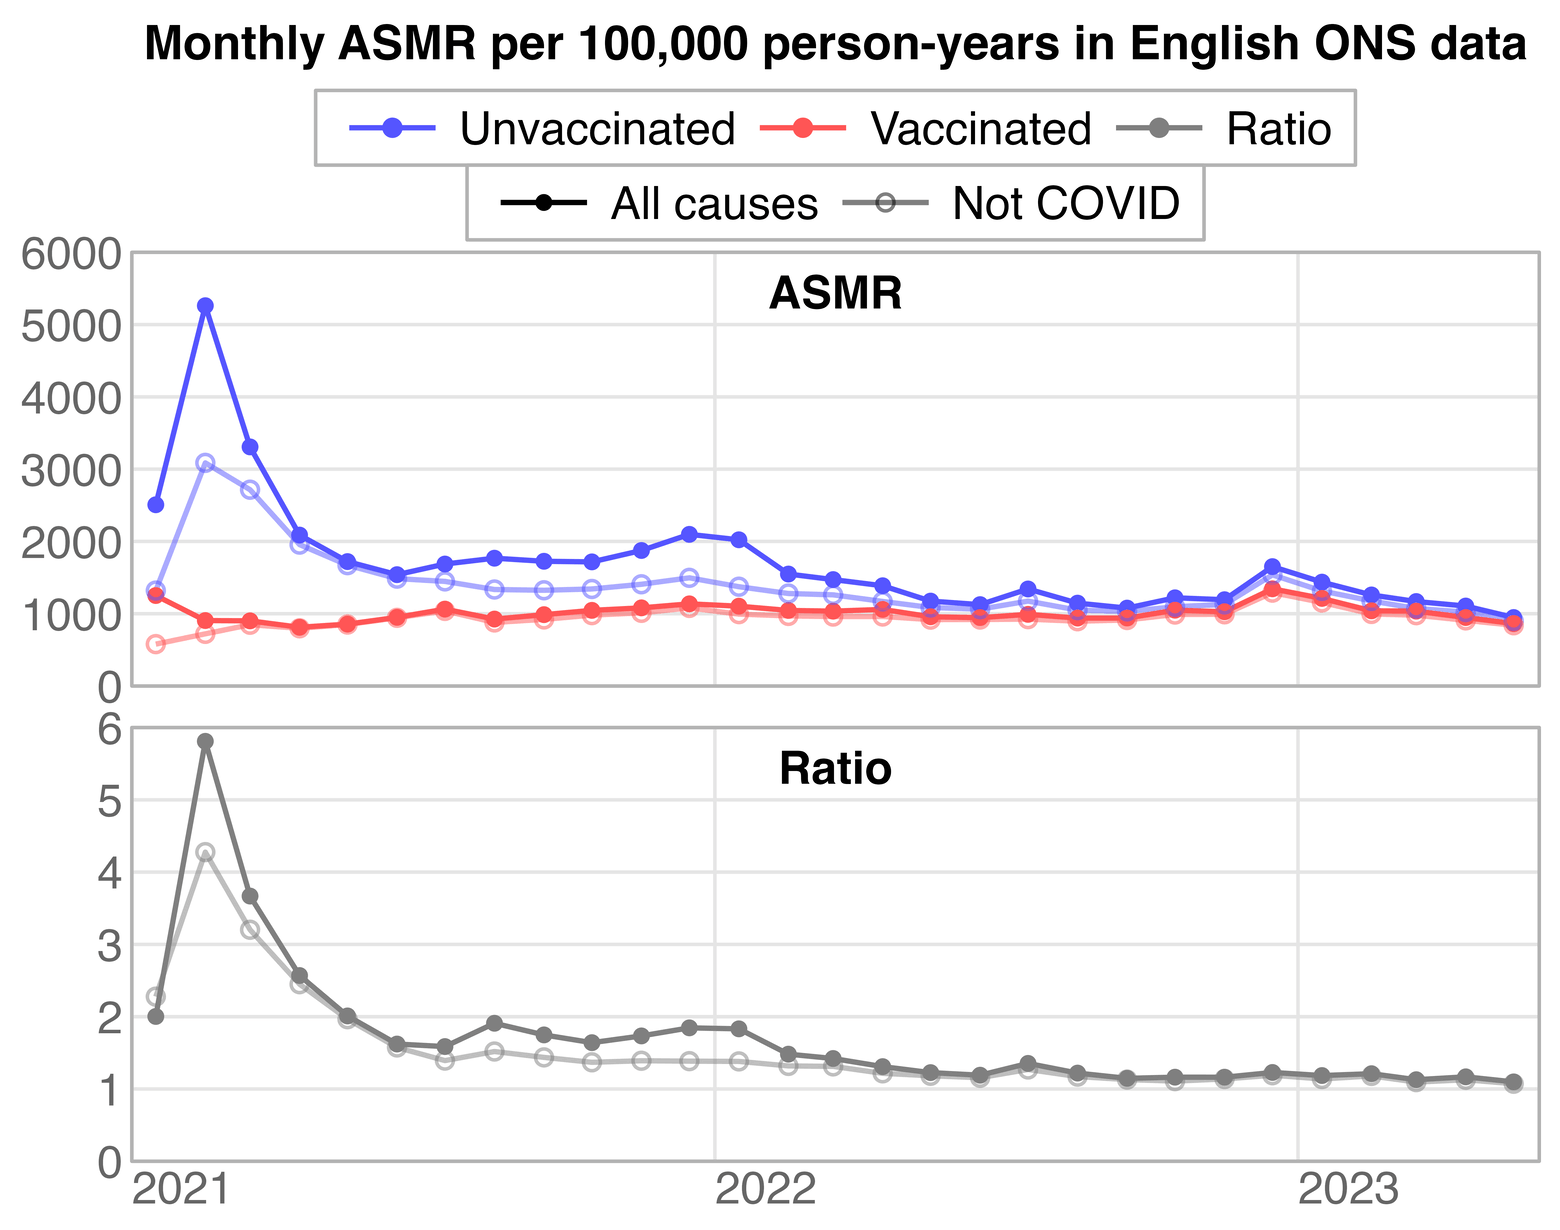
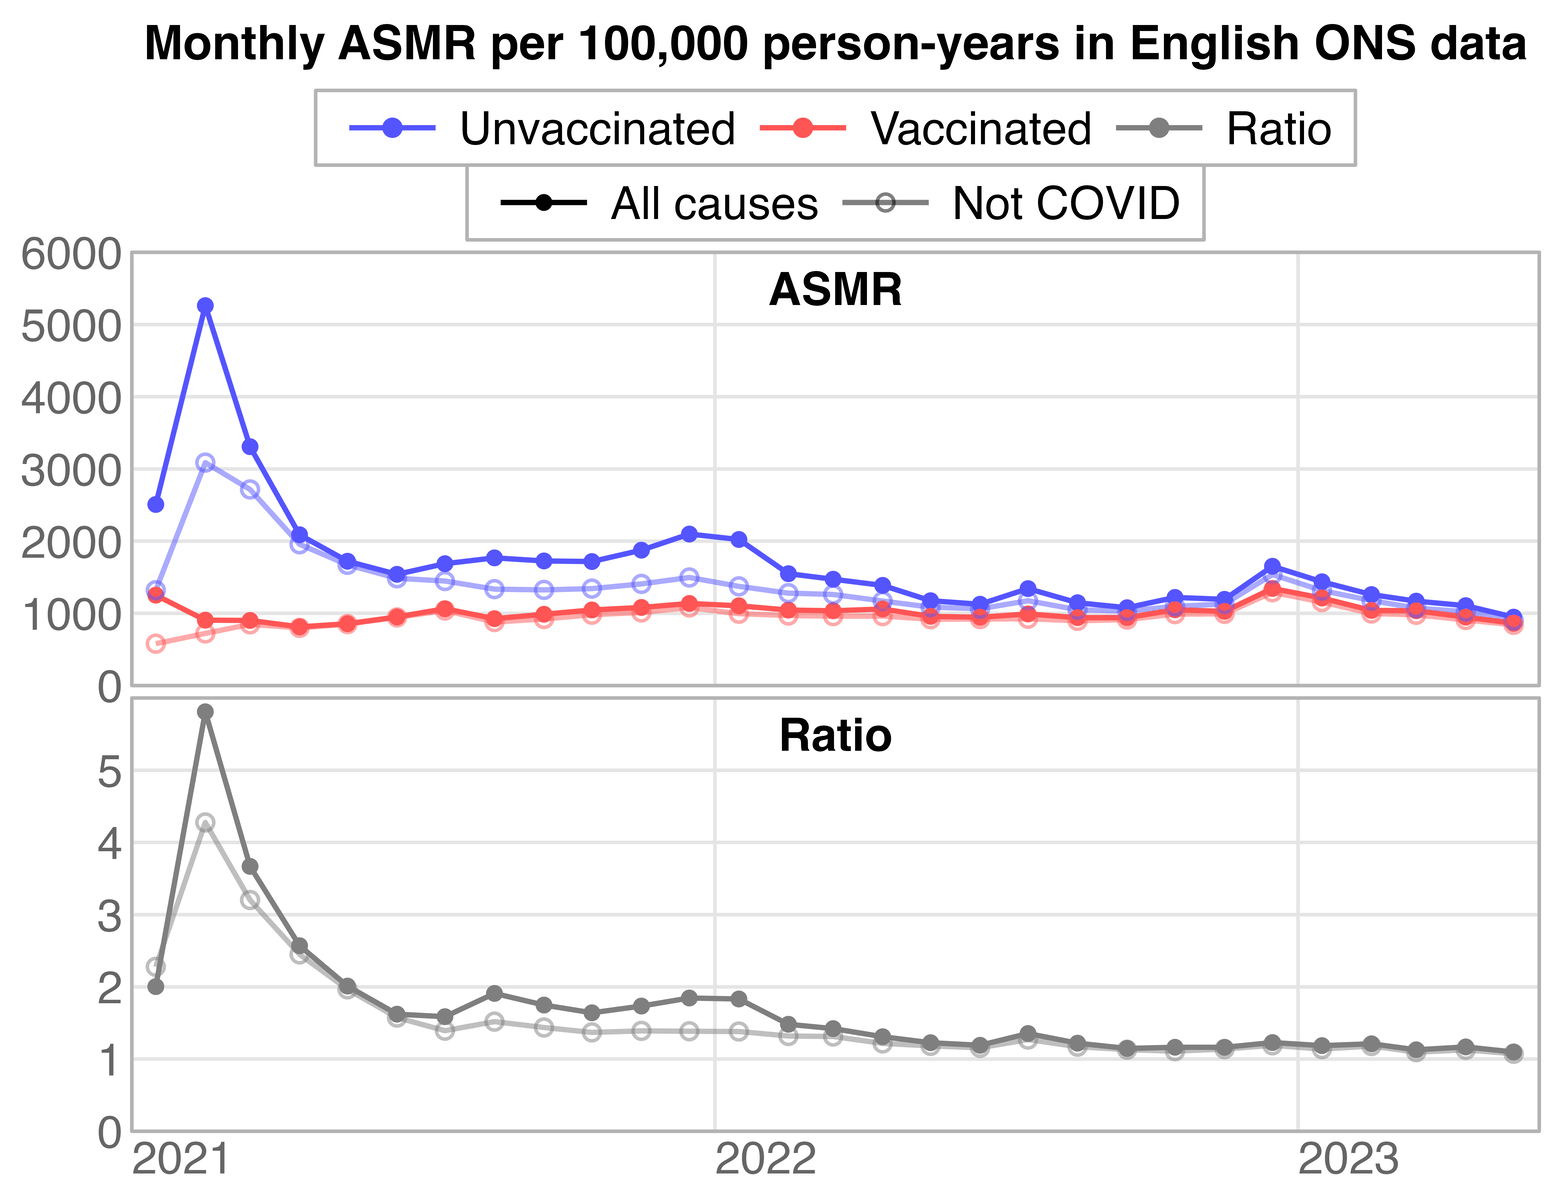
a

diff --git a/rootclaim5.html b/rootclaim5.html
@@ -67,6 +67,8 @@ blockquote blockquote blockquote,blockquote blockquote .quote,blockquote .quote 
 <li><a href="#Cumulative_CFR_in_Czech_Republic">Cumulative CFR in Czech Republic</a></li>
 <li><a href="#Why_were_deaths_in_the_United_States_higher_than_the_low_point_in_2018">Why were deaths in the United States higher than the low point in 2018?</a></li>
 <li><a href="#Ratio_between_unvaccinated_and_vaccinated_ASMR_in_English_ONS_data">Ratio between unvaccinated and vaccinated ASMR in English ONS data</a></li>
+<li><a href="#Does_HVE_last_for_only_21_days_for_non_COVID_vaccines">Does HVE last for only 21 days for non-COVID vaccines?</a></li>
+<li><a href="#Study_similar_to_Aarstad_that_shows_a_negative_correlation_between_vaccination_rate_and_excess_deaths">Study similar to Aarstad that shows a negative correlation between vaccination rate and excess deaths</a></li>
 </ul>
 </ul>
 
@@ -609,7 +611,7 @@ ggsave(&quot;1.png&quot;,width=5,height=2.9,dpi=300*4)</pre>
 <blockquote>
 <p>From the <a href=https://github.com/skirsch/covid/blob/b7e26286ce7018ca86d96a20f96e481f89b5de97/UK/UK_deaths_by_vax_status.xlsx>official UK data</a>, but with my ratio between u/v ASMR rates.</p>
 <p>Note: I'm not a big fan of the UK data because the ONS admitted that it was so problematic, it was unfit for purpose.</p>
-<p>See: <a href=http://web.archive.org/web/20230120222512/<a href=https://wherearethenumbers.substack.com/p/uk-statistics-regulator-agrees-with>UK&gt;<a href="https://wherearethenumbers.substack.com/p/uk-statistics-regulator-agrees-with" class="uri">https://wherearethenumbers.substack.com/p/uk-statistics-regulator-agrees-with</a>&gt;UK</a> Statistics Regulator agrees with our recommendation to <strong>ignore any claims of vaccine safety based on ONS deaths by vaccination status data</strong></a></p>
+<p>See: <a href=http&#x3a;//web.archive.org/web/20230120222512/https&#x3a;//wherearethenumbers.substack.com/p/uk-statistics-regulator-agrees-with>UK Statistics Regulator agrees with our recommendation to <strong>ignore any claims of vaccine safety based on ONS deaths by vaccination status data</strong></a></p>
 <p>So with that caveat in mind, here's what the Death by vaccination status reveals:</p>
 <div>
 <img src=i/rootclaim-onsratio.png width=600>
@@ -621,7 +623,7 @@ ggsave(&quot;1.png&quot;,width=5,height=2.9,dpi=300*4)</pre>
 <p>The reason why he used November and December as his high-COVID period seems to have been because the Czech Republic deaths during the Delta wave peaked in November to December 2021. But the UK already had a lot of Delta deaths in August, and there was a period with elevated COVID mortality from July 2021 until January 2022.</p>
 <p>But the ratio between unvaccinated and vaccinated ASMR dropped in February 2022 after the COVID deaths went down. So Kirsch should've used the period from February 2022 onwards as his low-COVID baseline period, and not the period before November 2021 like in his analysis of the Czech data:</p>
 <div>
-<img src=i/rootclaim-onsratio-2.png width=580>
+<img src=i/rootclaim-onsratio-2.png width=560>
 </div>
 <div class="spoiler">
 <button>
@@ -687,6 +689,31 @@ ggsave(&quot;1.png&quot;,width=5.2,height=4.1,dpi=300*4)</pre>
 <p>When Kirsch said that the <span class="quote">"the ASMR for the unvaccinated fluctuates in 30 days"</span>, I don't know if he meant the change in ASMR during the first months of 2021 that was due to HVE, or the change in later months that was due to variability in COVID deaths.</p>
 <p>But in case he meant the former, Kirsch should recognize by now that the HVE explains why unvaccinated people have high mortality when the first dose is rolled out, since he has identified a similar phenomenon in the Czech data. He linked to a Substack post about the ONS data by Norman Fenton and Martin Neil, who used to claim that the high mortality in unvaccinated people in early 2021 was somehow anomalous, and it was not explained by the HVE.</p>
 <p>In 2022 Fenton and Neil also wrote a paper where they claimed that the ONS dataset was <span class="quote">"corrupted"</span> because there was a very low number of deaths during the first two weeks from vaccination. But since then several other datasets have been released which have a similarly low number of deaths in the first two weeks after vaccination, including the Medicare and New Zealand datasets that were released by Kirsch. Even Kirsch's own analysis of the various record-level datasets has shown why Fenton and Neil's old preprints about the ONS data were wrong.</p>
+<h3>
+<a href=#Does_HVE_last_for_only_21_days_for_non_COVID_vaccines id=Does_HVE_last_for_only_21_days_for_non_COVID_vaccines>Does HVE last for only 21 days for non-COVID vaccines?</a>
+</h3>
+<p>Kirsch wrote: <span class="quote">"Short term HVE is always around 21 days regardless of location or vaccine."</span></p>
+<p>When I searched for studies that showed deaths by time after vaccination for non-COVID vaccines, I found a paper from 2009, which showed that deaths by weeks after influenza vaccination kept climbing long after 21 days from vaccination had passed (even though it might partially be because of seasonal variation in mortality, because influenza vaccines are often administered before the flu season when mortality peaks in the winter).</p>
+<p>The paper featured the following plot with this caption: <span class="quote">"Mortality (deaths per 100 person-years) by week after influenza vaccination among higher-risk vaccinees, lower-risk vaccinees, and all vaccinees (1.9 million flu shots), Kaiser Permanente, Northern California, 1996–2005. The flat reference line shows the average monthly mortality during all unvaccinated time in the study population. COPD, chronic obstructive pulmonary disease."</span> [<a href=https://pmc.ncbi.nlm.nih.gov/articles/PMC2728831/>https://pmc.ncbi.nlm.nih.gov/articles/PMC2728831/</a>]</p>
+<div>
+<img src=i/rootclaim-fluhve.png width=400>
+</div>
+<p>A study from 2024 included the plot below that shows all-cause mortality risk by weeks after flu vaccination, where the mortality risk gradually increases from about 0.19 on weeks 5-8 to 1.05 on weeks 25-28: [<a href=https://onlinelibrary.wiley.com/doi/10.1002/jmv.29722>https://onlinelibrary.wiley.com/doi/10.1002/jmv.29722</a>]</p>
+<div>
+<img src=i/rootclaim-fluhve-2.png width=630>
+</div>
+<h3>
+<a href=#Study_similar_to_Aarstad_that_shows_a_negative_correlation_between_vaccination_rate_and_excess_deaths id=Study_similar_to_Aarstad_that_shows_a_negative_correlation_between_vaccination_rate_and_excess_deaths>Study similar to Aarstad that shows a negative correlation between vaccination rate and excess deaths</a>
+</h3>
+<p>Kirsch wrote: <span class="quote">"The <a href=https://jarle.substack.com/p/at-least-ten-percent-increased-all>Aarstad</a> study (39 countries, 1B total population) showed an R2 =56.6%. Relating vaccination level and excess mortality. There is no study anywhere with a comparable population and R2 that shows a negative correlation."</span></p>
+<p>Aarstad got an r-squared value of abotu 0.57 between excess mortality in 2022 and the percentage of vaccinated people across European countries. But that's because he used the average number of deaths in 2016-2019 as the baseline, which exaggerated excess mortality in Western European countries relative to Eastern European countries for two reasons. Western European countries had a more steeply increasing slope in yearly deaths even before COVID. And also Eastern European countries had a higher percentage of excess deaths in 2020-2022, so the baseline should've been lowered more in Eastern European countries to account for the reduction in population size: [<a href=rootclaim.html#Aarstads_correlation_between_excess_deaths_at_Eurostat_in_2022_and_percentage_of_vaccinated_people_4g>rootclaim.html#Aarstads_correlation_between_excess_deaths_at_Eurostat_in_2022_and_percentage_of_vaccinated_people_4g</a>]</p>
+<div>
+<img src=i/statistic-euro-2.png width=700>
+</div>
+<p>When I used a more accurate 2013-2019 linear trend for ASMR instead, I got a negative correlation between the percentage of vaccinated people in 2022 and excess deaths in 2022: [ibid.]</p>
+<div>
+<img src=i/statistic-euro-1.png width=600>
+</div>
 <script>
 document.querySelectorAll('pre').forEach(e=>e.innerHTML=e.innerHTML.replace(/((^| )# [^\n]*|^#$)/mg,"<span class=comment>$1</span>"))
 
